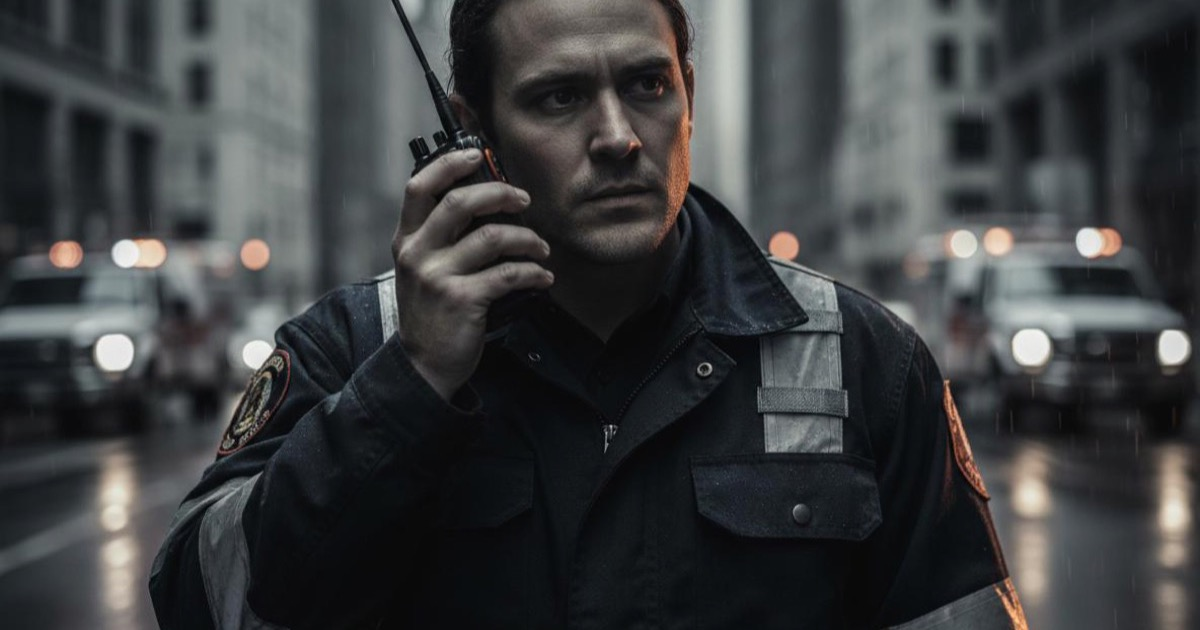
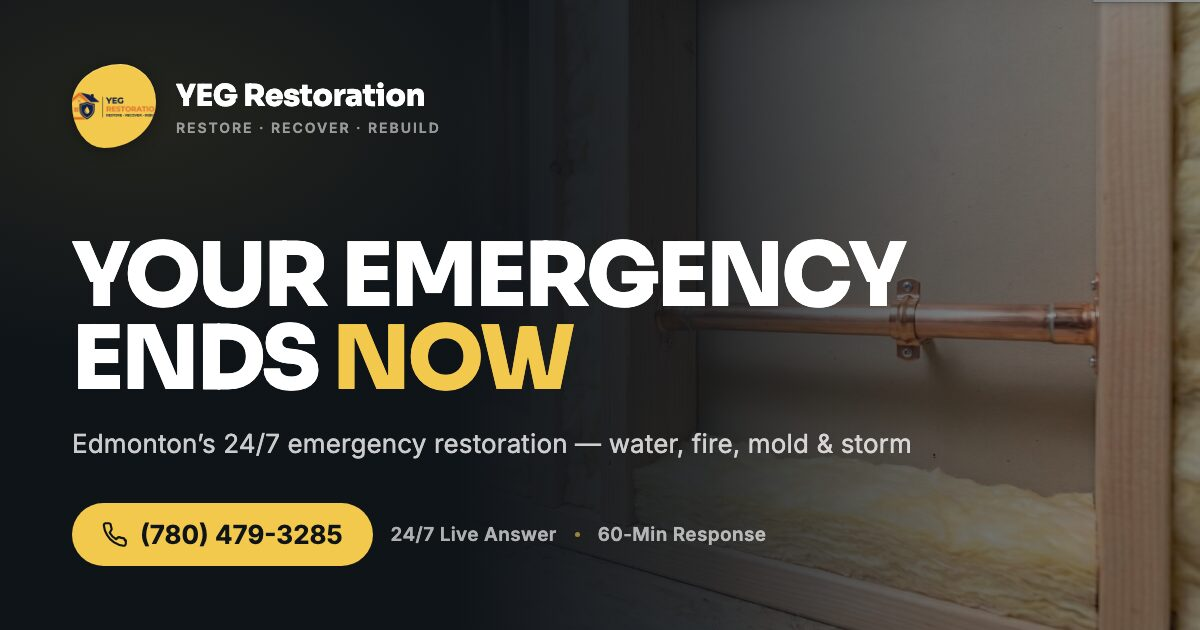
Replace OG cover with branded 1200×630 design
Old og-cover.jpg was an unbranded cropped hero photo. New cover uses the
dark brand palette with the logo blob, 'Your emergency ends NOW'
headline, tagline, phone pill, and 24/7 badges over the treated restored-
framing photo — same filename/path, so Layout default, JSON-LD, and
llms.txt references pick it up with zero code changes. Regenerate by
opening docs/og-cover-template.html at 1200×630 and screenshotting.

diff --git a/docs/og-cover-template.html b/docs/og-cover-template.html
@@ -1,0 +1,99 @@
+<!doctype html>
+<html>
+<head>
+<meta charset="utf-8">
+<style>
+  @font-face {
+    font-family: 'Sora';
+    src: url('../public/fonts/sora-latin.woff2') format('woff2');
+    font-weight: 100 900;
+  }
+  @font-face {
+    font-family: 'Inter';
+    src: url('../public/fonts/inter-latin.woff2') format('woff2');
+    font-weight: 100 900;
+  }
+  * { margin: 0; padding: 0; box-sizing: border-box; }
+  body { width: 1200px; height: 630px; overflow: hidden; background: #0F1419; position: relative; font-family: 'Inter', sans-serif; }
+
+  /* Right-side photo, treated dark like the site hero */
+  .photo {
+    position: absolute; right: 0; top: 0; width: 62%; height: 100%;
+    background: url('../src/assets/hero/after-restored.png') center right / cover no-repeat;
+  }
+  .photo::after {
+    content: ''; position: absolute; inset: 0;
+    background: linear-gradient(to right, #0F1419 0%, rgba(15,20,25,0.86) 34%, rgba(15,20,25,0.55) 68%, rgba(15,20,25,0.38) 100%);
+  }
+
+  /* Subtle amber glow, echoes homepage ambient glow */
+  .glow {
+    position: absolute; inset: 0;
+    background: radial-gradient(ellipse 55% 60% at 12% 18%, rgba(242,201,76,0.09) 0%, transparent 65%);
+  }
+
+  .content { position: absolute; inset: 0; padding: 64px 72px; display: flex; flex-direction: column; z-index: 2; }
+
+  .brand { display: flex; align-items: center; gap: 20px; }
+  .logo-blob {
+    width: 84px; height: 84px; background: #F2C94C;
+    border-radius: 58% 42% 62% 38% / 48% 45% 55% 52%;
+    display: flex; align-items: center; justify-content: center; overflow: hidden;
+    box-shadow: 0 2px 16px rgba(0,0,0,0.32), inset 0 1px 0 rgba(255,255,255,0.24);
+  }
+  .logo-blob img { width: 118px; height: 118px; object-fit: contain; }
+  .brand-name { font-family: 'Sora'; font-weight: 800; font-size: 30px; color: #FFFFFF; letter-spacing: -0.01em; }
+  .brand-sub { font-size: 14px; font-weight: 600; letter-spacing: 0.14em; text-transform: uppercase; color: rgba(255,255,255,0.55); margin-top: 4px; }
+
+  .headline { margin-top: auto; }
+  .headline h1 {
+    font-family: 'Sora'; font-weight: 800; font-size: 88px; line-height: 0.95;
+    letter-spacing: -0.03em; color: #FFFFFF; text-transform: uppercase;
+  }
+  .headline h1 .amber { color: #F2C94C; }
+  .tagline {
+    margin-top: 26px; font-size: 26px; font-weight: 400; color: rgba(255,255,255,0.78); letter-spacing: 0.005em;
+  }
+
+  .footer { margin-top: 44px; display: flex; align-items: center; gap: 18px; }
+  .phone-pill {
+    display: inline-flex; align-items: center; gap: 12px;
+    background: #F2C94C; color: #0F1419; border-radius: 999px;
+    padding: 16px 30px; font-weight: 700; font-size: 26px; font-family: 'Inter';
+  }
+  .phone-pill svg { width: 26px; height: 26px; }
+  .badge { font-size: 19px; font-weight: 600; color: rgba(255,255,255,0.66); letter-spacing: 0.02em; }
+  .dot { width: 5px; height: 5px; border-radius: 999px; background: rgba(242,201,76,0.6); }
+</style>
+</head>
+<body>
+  <div class="photo"></div>
+  <div class="glow"></div>
+  <div class="content">
+    <div class="brand">
+      <div class="logo-blob">
+        <img src="../public/images/YEG_Restoration_Logo_RBG.png" alt="">
+      </div>
+      <div>
+        <div class="brand-name">YEG Restoration</div>
+        <div class="brand-sub">Restore · Recover · Rebuild</div>
+      </div>
+    </div>
+
+    <div class="headline">
+      <h1>Your emergency<br>ends <span class="amber">now</span></h1>
+      <div class="tagline">Edmonton&rsquo;s 24/7 emergency restoration — water, fire, mold &amp; storm</div>
+    </div>
+
+    <div class="footer">
+      <div class="phone-pill">
+        <svg viewBox="0 0 24 24" fill="none" stroke="currentColor" stroke-width="2" stroke-linecap="round" stroke-linejoin="round"><path d="M22 16.92v3a2 2 0 0 1-2.18 2 19.79 19.79 0 0 1-8.63-3.07A19.5 19.5 0 0 1 4.69 12 19.79 19.79 0 0 1 1.73 3.35a2 2 0 0 1 1.48-2.18H6.09a2 2 0 0 1 2 1.72 12.84 12.84 0 0 0 .7 2.81 2 2 0 0 1-.45 2.11L7.09 9.91a16 16 0 0 0 6 6l1.27-1.27a2 2 0 0 1 2.11-.45 12.84 12.84 0 0 0 2.81.7A2 2 0 0 1 21 16.92z"/></svg>
+        (780) 479-3285
+      </div>
+      <span class="badge">24/7 Live Answer</span>
+      <span class="dot"></span>
+      <span class="badge">60-Min Response</span>
+    </div>
+  </div>
+</body>
+</html>